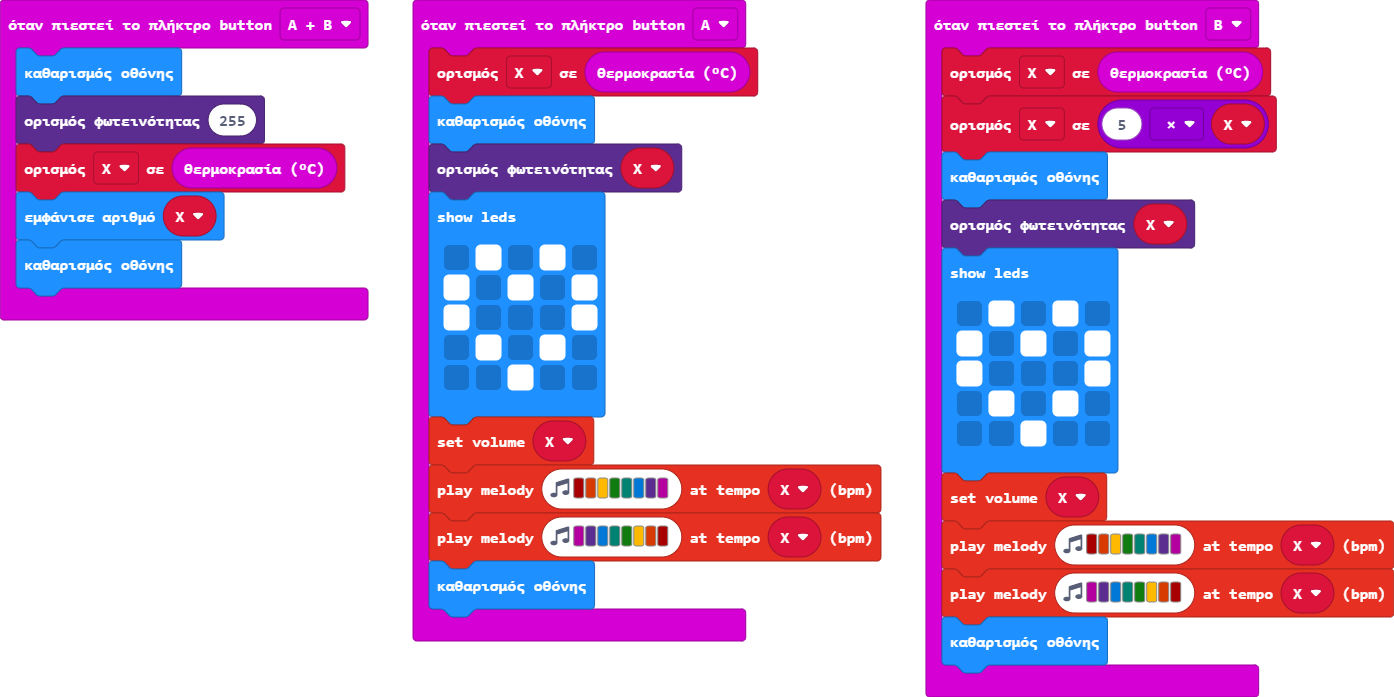
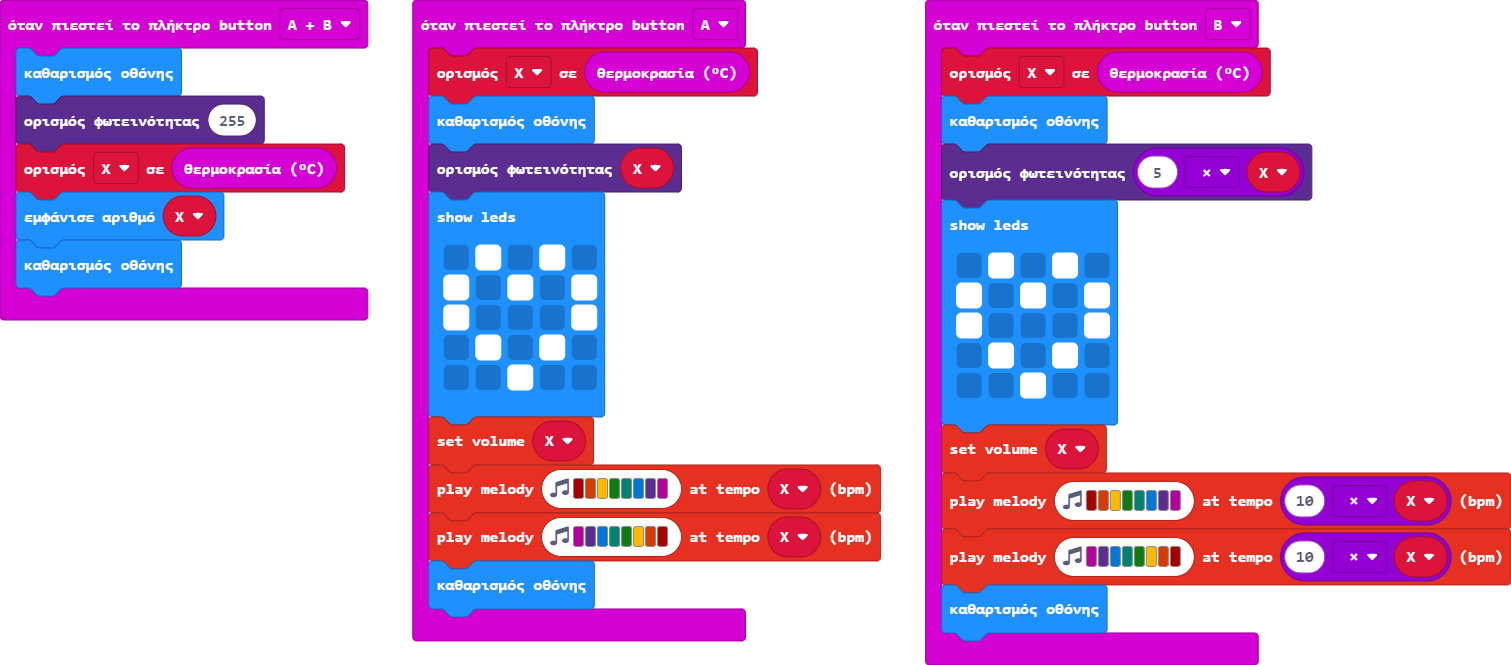
Ενημέρωση main.blocks, main.ts

diff --git a/main.ts b/main.ts
@@ -24,9 +24,8 @@ input.onButtonPressed(Button.A, function () {
 })
 input.onButtonPressed(Button.B, function () {
     Χ = input.temperature()
-    Χ = 5 * Χ
     basic.clearScreen()
-    led.setBrightness(Χ)
+    led.setBrightness(5 * Χ)
     basic.showLeds(`
         . # . # .
         # . # . #
@@ -35,7 +34,7 @@ input.onButtonPressed(Button.B, function () {
         . . # . .
         `)
     music.setVolume(Χ)
-    music.playMelody("C5 B A G F E D C ", Χ)
-    music.playMelody("C D E F G A B C5 ", Χ)
+    music.playMelody("C5 B A G F E D C ", 10 * Χ)
+    music.playMelody("C D E F G A B C5 ", 10 * Χ)
     basic.clearScreen()
 })
